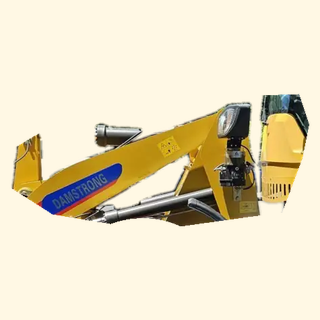
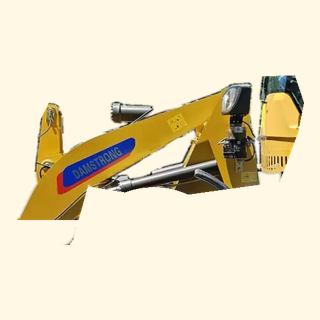
Cut the loader bucket as the scoop, and leave the boom on the arms.
The piece labeled bucket was the front of the lift arm, sticker and all. The scoop is only the open shovel at the front pin, and the arms keep the boom and linkage.

Changed region(s): [[0.0312, 0.2188, 0.9688, 0.7188], [0.1875, 0.75, 0.2188, 0.7812]]

diff --git a/bernie/loader/loader.js b/bernie/loader/loader.js
@@ -8,8 +8,8 @@
     { id: "front-wheel", name: "Front wheel", src: "img/front-wheel.webp", x: 163, y: 354, w: 271, h: 259, group: "body" },
     { id: "engine", name: "Engine", src: "img/engine.webp", x: 154, y: 39, w: 840, h: 442, group: "body" },
     { id: "cab", name: "Cab", src: "img/cab.webp", x: 451, y: 5, w: 310, h: 251, group: "body" },
-    { id: "arms", name: "Lift arms", src: "img/arms.webp", x: 103, y: 170, w: 443, h: 196, group: "arms" },
-    { id: "bucket", name: "Bucket", src: "img/bucket.webp", x: 5, y: 214, w: 185, h: 306, group: "bucket" }
+    { id: "arms", name: "Lift arms", src: "img/arms.webp", x: 72, y: 170, w: 474, h: 279, group: "arms" },
+    { id: "bucket", name: "Bucket", src: "img/bucket.webp", x: 5, y: 408, w: 170, h: 112, group: "bucket" }
   ];
   /* Boom pin on the chassis. The bucket sits left and below it, so a positive
      turn lifts the arms and the bucket. */
